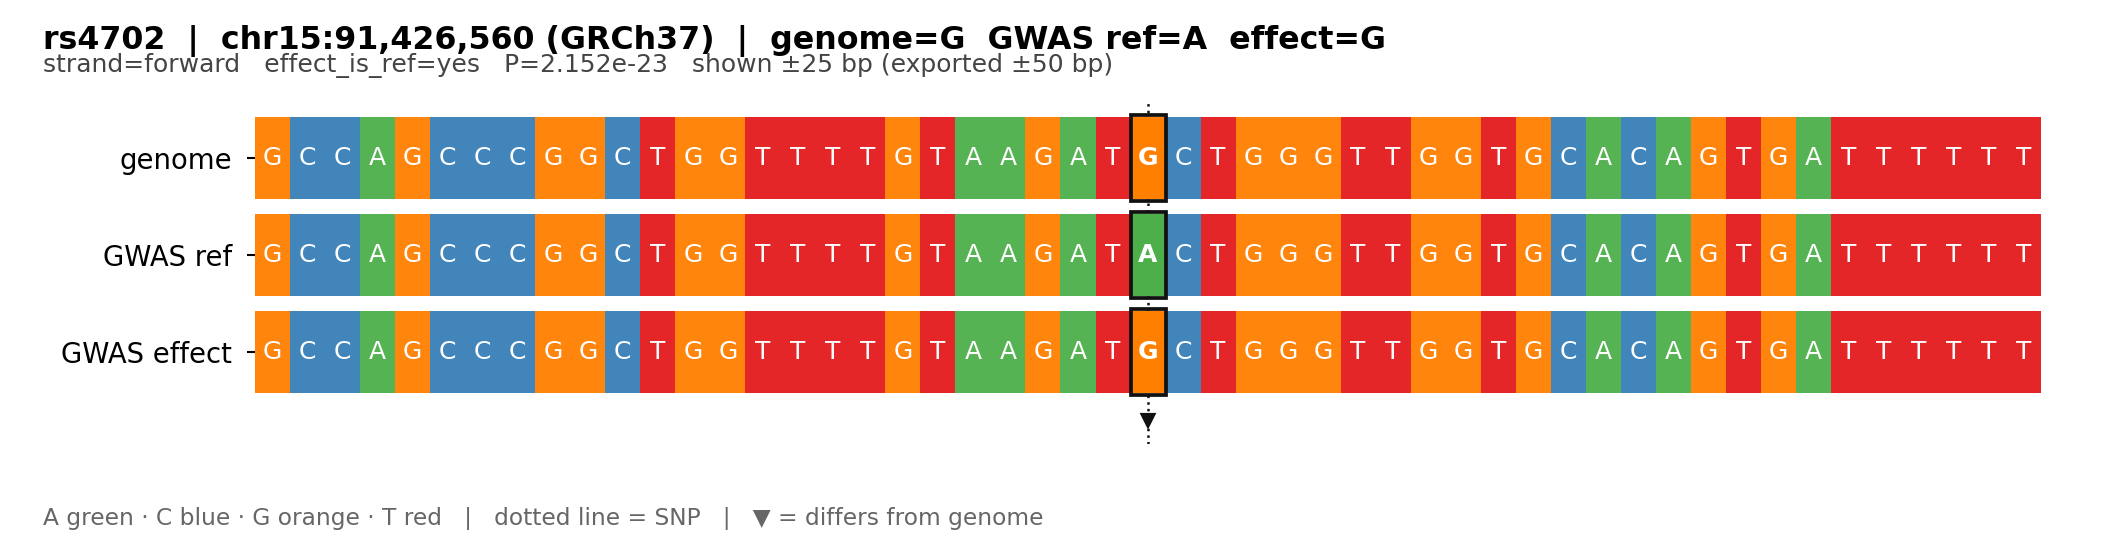
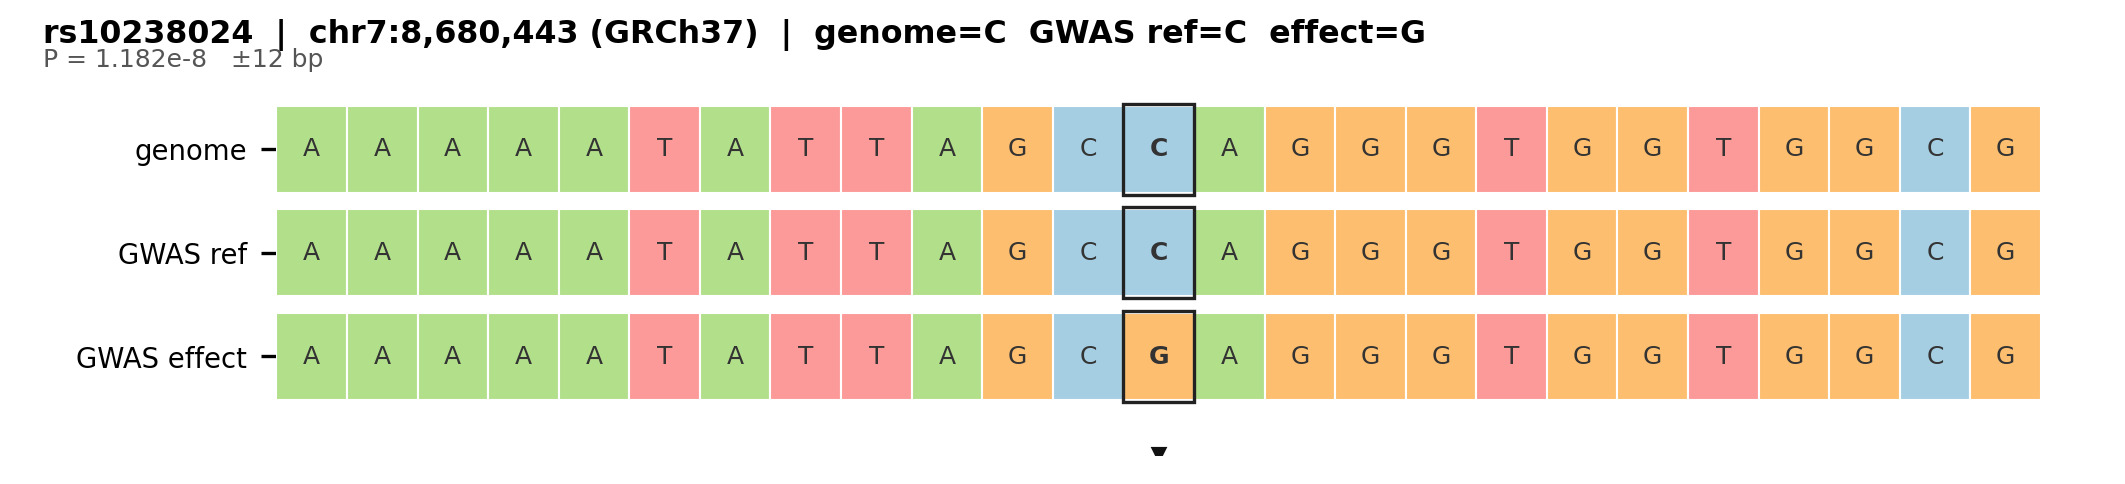
style(seq): 碱基配色改淡、去掉底部图注、副标题精简

diff --git a/seq.py b/seq.py
@@ -271,9 +271,11 @@ def export(gwas_path, targets, fasta_path, flank=500, columns=None,
 # =============================================================================
 # 可视化
 # =============================================================================
-BASE_COLORS = {"A": "#4daf4a", "C": "#377eb8", "G": "#ff7f00", "T": "#e41a1c",
-               "N": "#bdbdbd", "a": "#4daf4a", "c": "#377eb8", "g": "#ff7f00",
-               "t": "#e41a1c", "n": "#bdbdbd"}
+# 淡色系（ColorBrewer Paired 浅色），配深灰字，避免大片高饱和色
+BASE_COLORS = {"A": "#b2df8a", "C": "#a6cee3", "G": "#fdbf6f", "T": "#fb9a99",
+               "N": "#d9d9d9", "a": "#b2df8a", "c": "#a6cee3", "g": "#fdbf6f",
+               "t": "#fb9a99", "n": "#d9d9d9"}
+BASE_TEXT = "#333333"
 
 
 def plot_sequence(row, view=30, out=None, dpi=300, width_mm=180, row_mm=7.0,
@@ -313,9 +315,9 @@ def plot_sequence(row, view=30, out=None, dpi=300, width_mm=180, row_mm=7.0,
     n = hi - lo
     shown = min(center - lo, hi - 1 - center)
 
-    h_mm = 26 + row_mm * len(seqs)
+    h_mm = 20 + row_mm * len(seqs)
     fig = plt.figure(figsize=(width_mm / 25.4, h_mm / 25.4))
-    ax = fig.add_axes([0.12, 0.20, 0.84, 0.62])
+    ax = fig.add_axes([0.13, 0.06, 0.83, 0.76])
     ax.set_xlim(lo - 0.5, hi - 0.5)
     ax.set_ylim(-0.6, len(seqs) - 0.05)
     ax.invert_yaxis()
@@ -337,38 +339,36 @@ def plot_sequence(row, view=30, out=None, dpi=300, width_mm=180, row_mm=7.0,
             base_col = BASE_COLORS.get(up, "#cccccc")
             is_snp = (lo + i) == center
             ax.add_patch(Rectangle((lo + i - 0.5, r - 0.42), 1.0, 0.84,
-                                   facecolor=base_col, edgecolor="none",
-                                   alpha=0.95 if not is_snp else 1.0, zorder=2))
+                                   facecolor=base_col, edgecolor="white",
+                                   linewidth=0.5, zorder=2))
             if letters:
                 ax.text(lo + i, r, up, ha="center", va="center",
-                        fontsize=font_size, color="white", zorder=3,
+                        fontsize=font_size, color=BASE_TEXT, zorder=3,
                         fontweight="bold" if is_snp else "normal")
         if not letters and len(seg):
             ax.text(lo - 1.0, r, "5\u2032", ha="right", va="center", fontsize=font_size)
     # SNP 竖线 + 方框
-    ax.axvline(center, color="#111111", lw=0.6, ls=":", zorder=1)
     for r in range(len(seqs)):
         ax.add_patch(Rectangle((center - 0.5, r - 0.44), 1.0, 0.88, facecolor="none",
-                               edgecolor="#111111", linewidth=0.9, zorder=4))
+                               edgecolor="#222222", linewidth=0.8, zorder=4))
     # 与基因组不同的列加标记
     g = seqs[0][1][lo:hi]
     for r in (1, 2):
         for i, ch in enumerate(seqs[r][1][lo:hi]):
             if ch.upper() != g[i].upper():
-                ax.plot([lo + i], [len(seqs) - 0.30 + (r - 1) * 0.13],
+                ax.plot([lo + i], [len(seqs) - 0.17 + (r - 1) * 0.11],
                         marker="v", ms=2.4, color="#111111", zorder=5)
 
     ttl = (f"{row['rsid']}  |  chr{row['chrom']}:{int(row['pos']):,} ({row['build']})  |  "
            f"genome={row['genome_ref_base']}  GWAS ref={row.get('gwas_ref_allele') or '?'}"
            f"  effect={row.get('gwas_effect_allele') or '?'}")
-    fig.text(0.02, 0.955, ttl, fontsize=font_size + 1.6, fontweight="bold", va="top")
-    sub = (f"strand={row.get('strand_vs_genome')}   effect_is_ref={row.get('effect_is_ref')}"
-           f"   P={row.get('gwas_p')}   shown \u00b1{shown} bp (exported \u00b1{row['flank']} bp)")
-    fig.text(0.02, 0.905, sub, fontsize=font_size, va="top", color="#444444")
-    fig.text(0.02, 0.045,
-             "A green \u00b7 C blue \u00b7 G orange \u00b7 T red   |   dotted line = SNP   "
-             "|   \u25bc = differs from genome",
-             fontsize=font_size - 0.4, color="#666666", va="bottom")
+    fig.text(0.02, 0.96, ttl, fontsize=font_size + 1.6, fontweight="bold", va="top")
+    _p = row.get("gwas_p")
+    sub = (f"P = {_p}   " if _p else "") + f"\u00b1{shown} bp"
+    _strand = row.get("strand_vs_genome")
+    if _strand and _strand != "forward":
+        sub += f"   strand={_strand}"
+    fig.text(0.02, 0.90, sub, fontsize=font_size, va="top", color="#555555")
     if out:
         os.makedirs(os.path.dirname(os.path.abspath(out)) or ".", exist_ok=True)
         fig.savefig(out, dpi=dpi)
